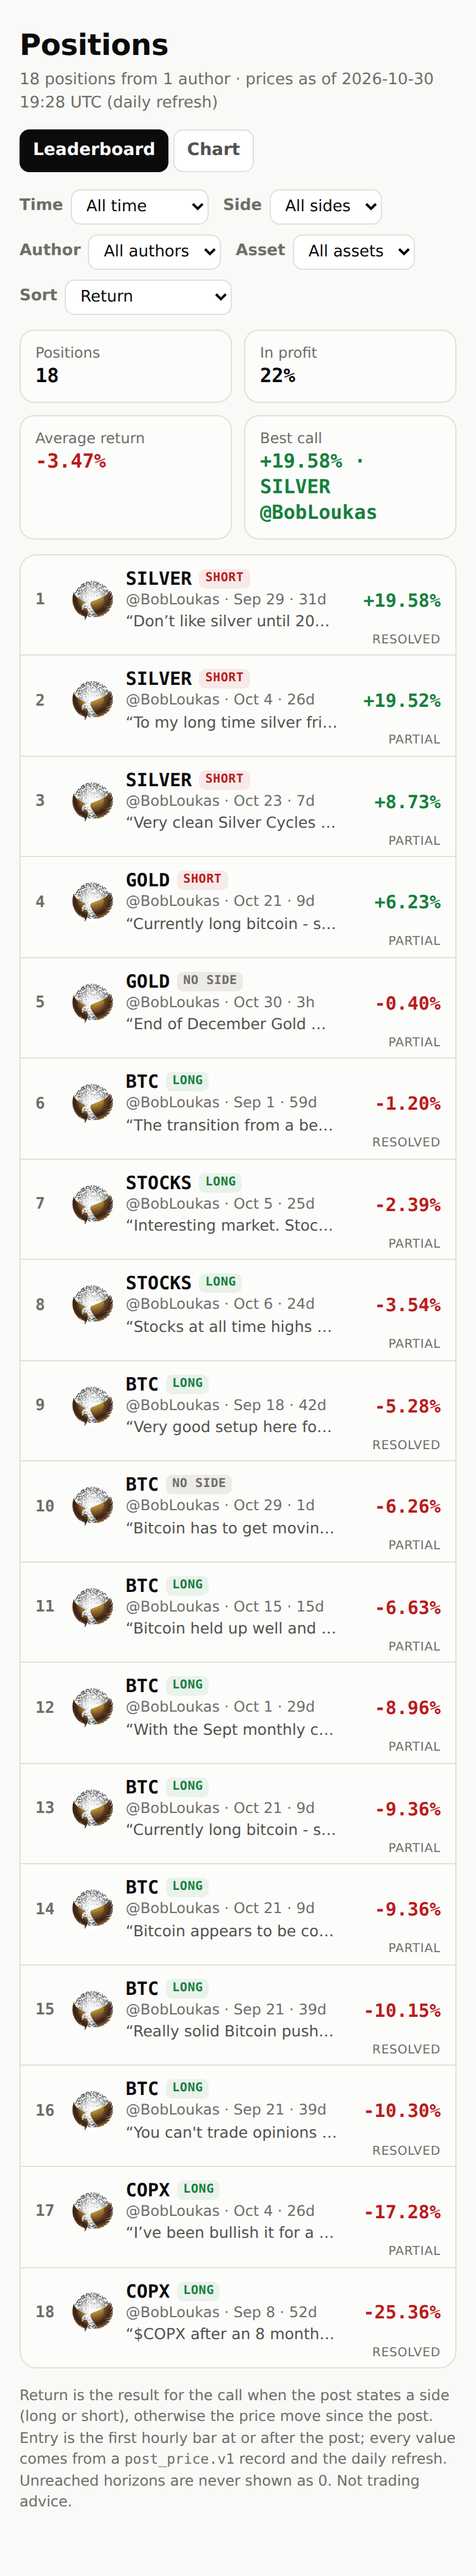
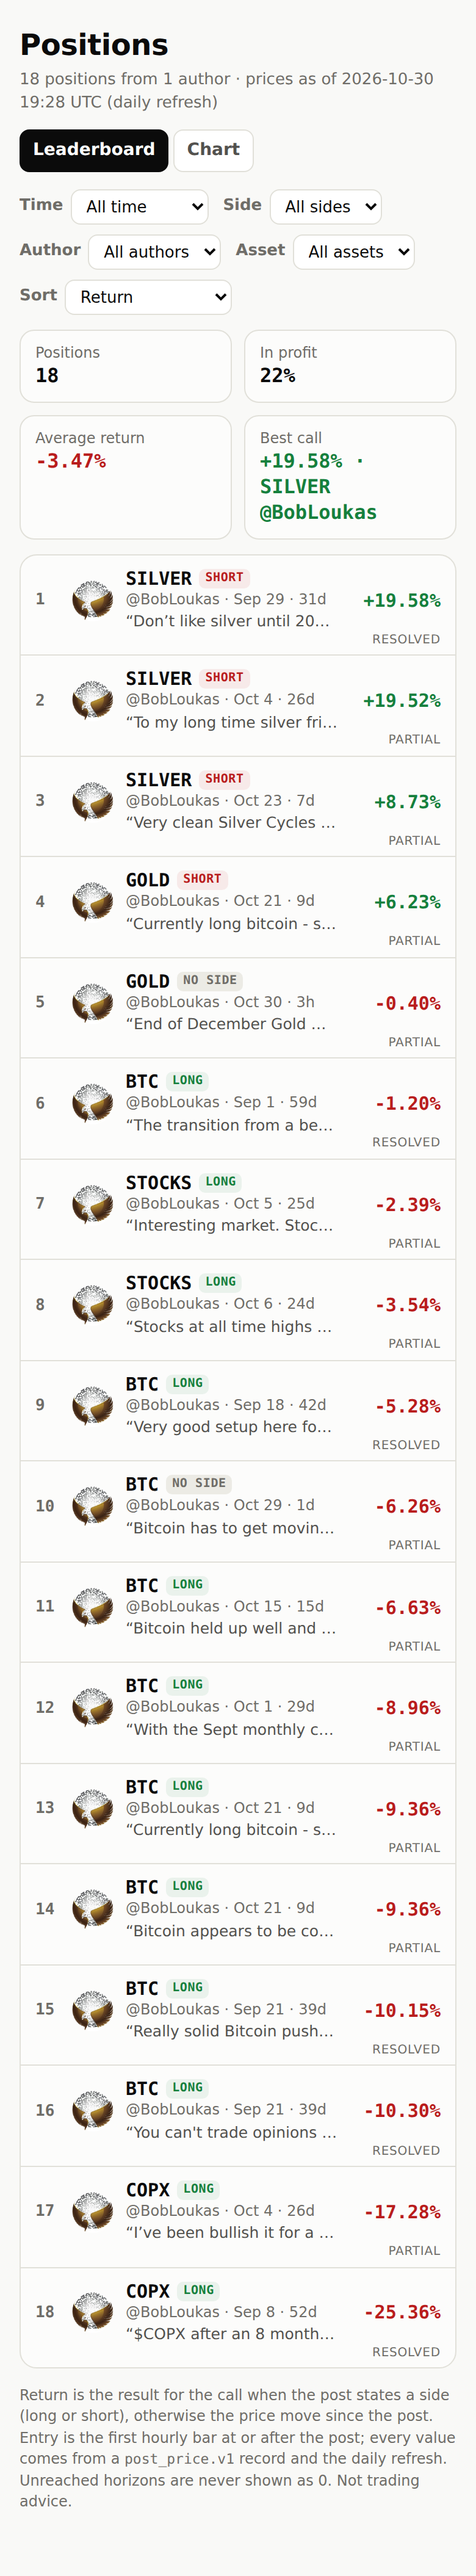
step 10: verification follow-up (invalid url live check, unresolved ranking with pending fixture, erratum 174->156 rows)

diff --git a/verification/step10_run.md b/verification/step10_run.md
@@ -101,3 +101,77 @@ eb8547fbaf9b5085ef21eda2173fbcbded02c672efd9ee95cc6159fefbe2657b  verification/s
 53d12ad40731aa944610e6c7fd1654f5abf4daaf92b7d0702adc438f85a43dd4  verification/step10/board_phone.png
 0fd5caba64183242090958aa40cb0d0529a39a92a9a4f499fe316346c2769bb6  verification/step10/board_phone_filtered.png
 ```
+
+## Verification follow-up (2026-10-30 21:20-21:50 UTC)
+
+**Erratum.** The summary line above says `174 with rows, 258 correctly empty`. The correct split is **156 with rows, 276 correctly empty** (of 432). The test's counter also counted the 18 select-change checks (156 + 18 = 174). Every row/rank/value comparison was already correct; only that summary count was wrong. Fixed in [`03874b9`](https://github.com/sendoeth/pf-post-signals/commit/03874b9ef5a1e6dd29cb42345e40cf6c09f513a9) and confirmed by an independent count (Python, same rules): `combinations 432 with rows 156 empty 276`.
+
+**Invalid URL state.** Before `03874b9` the page reset unknown values to the defaults but left them in the address bar. Now it also rewrites the URL to the state shown. Live, after deploy:
+
+```text
+load https://sendoeth.com/pf-post-signals/web/?side=bogus&sort=bogus&time=8d
+{
+ "url": "https://sendoeth.com/pf-post-signals/web/",
+ "selects": {
+  "time": "all",
+  "side": "all",
+  "author": "all",
+  "asset": "all",
+  "sort": "return"
+ },
+ "stats": [
+  "Positions: 18",
+  "In profit: 22%",
+  "Average return: -3.47%",
+  "Best call: +19.58% · SILVER @BobLoukas"
+ ],
+ "rows": [
+  "1. SILVER SHORT +19.58% best ▲ +19.58%",
+  "2. SILVER SHORT +19.52% best ▲ +19.52%",
+  "3. SILVER SHORT +8.73% best ▲ +8.73%",
+  "4. GOLD SHORT +6.23% best ▲ +6.25%",
+  "5. GOLD NO SIDE -0.40% best ▲ 0.00%",
+  "6. BTC LONG -1.20% best ▲ +12.33%",
+  "7. STOCKS LONG -2.39% best ▲ +1.51%",
+  "8. STOCKS LONG -3.54% best ▲ +0.32%",
+  "9. BTC LONG -5.28% best ▲ +7.70%",
+  "10. BTC NO SIDE -6.26% best ▲ 0.00%",
+  "11. BTC LONG -6.63% best ▲ +3.33%",
+  "12. BTC LONG -8.96% best ▲ +3.10%",
+  "13. BTC LONG -9.36% best ▲ +0.32%",
+  "14. BTC LONG -9.36% best ▲ +0.32%",
+  "15. BTC LONG -10.15% best ▲ +2.16%",
+  "16. BTC LONG -10.30% best ▲ +1.99%",
+  "17. COPX LONG -17.28% best ▲ +1.08%",
+  "18. COPX LONG -25.36% best ▲ +0.40%"
+ ],
+ "unresolved": [],
+ "asOf": "18 positions from 1 author · prices as of 2026-10-30 19:28 UTC (daily refresh)"
+}
+```
+
+**Unresolved values.** No live position is unresolved today: all 18 have an entry bar and a current price. The ranking rule (unresolved last by return and by best, newest-first by post time) is checked by `tests/board_test.js` section F on a test-only copy of the deployed site files whose bundle adds `tests/fixtures/pending_records/2116212800955576797_GOLD.json` (a real BobLoukas post of 2026-10-30 16:57 UTC resolved against bars that end before it, so it has no entry bar). That copy is never deployed. Screenshot: [verification/step10/board_pending_fixture.png](step10/board_pending_fixture.png).
+
+```text
+$ node tests/board_test.js --url https://sendoeth.com/pf-post-signals/web/
+page https://sendoeth.com/pf-post-signals/web/
+filter/sort combinations loaded from their URL: 432 (156 with rows, 276 correctly empty); select changes: 18; default-view fields checked against records: 144; rows 18; CSP violations 0; console errors 0
+ALL PASS
+[exit 0]
+
+$ node tests/board_test.js   # local; adds the test-only pending fixture copy
+page http://127.0.0.1:40951/
+filter/sort combinations loaded from their URL: 432 (156 with rows, 276 correctly empty); select changes: 18; default-view fields checked against records: 144; rows 18; CSP violations 0; console errors 0
+unresolved (test-only fixture copy): sort=return: pending post 2116212800955576797 at rank 19 of 19 (last), return "unresolved", best "–", prices "no entry bar" -> OK
+unresolved (test-only fixture copy): sort=best: pending post 2116212800955576797 at rank 19 of 19 (last), return "unresolved", best "–", prices "no entry bar" -> OK
+unresolved (test-only fixture copy): sort=newest: pending post 2116212800955576797 at rank 1 of 19 (first (newest post)), return "unresolved", best "–", prices "no entry bar" -> OK
+ALL PASS
+[exit 0]
+```
+
+```text
+c417991f527be1276e5033eac8909ed8113699ba48121f050d6037f21671649d  web/assets/board.js
+7c39cde5c7a97478a7532ea4b412d0ec64f63c8aa1821313964df4531dd9d4ba  tests/board_test.js
+a212012499d9821f13c1a7a7c0d16ee72240d0cc6709c74159979aa626529027  tests/fixtures/pending_records/2116212800955576797_GOLD.json
+d73a438abdf762f1b02c200c399ce88e10c9484557c956bc653bf448974374ce  verification/step10/board_pending_fixture.png
+```
